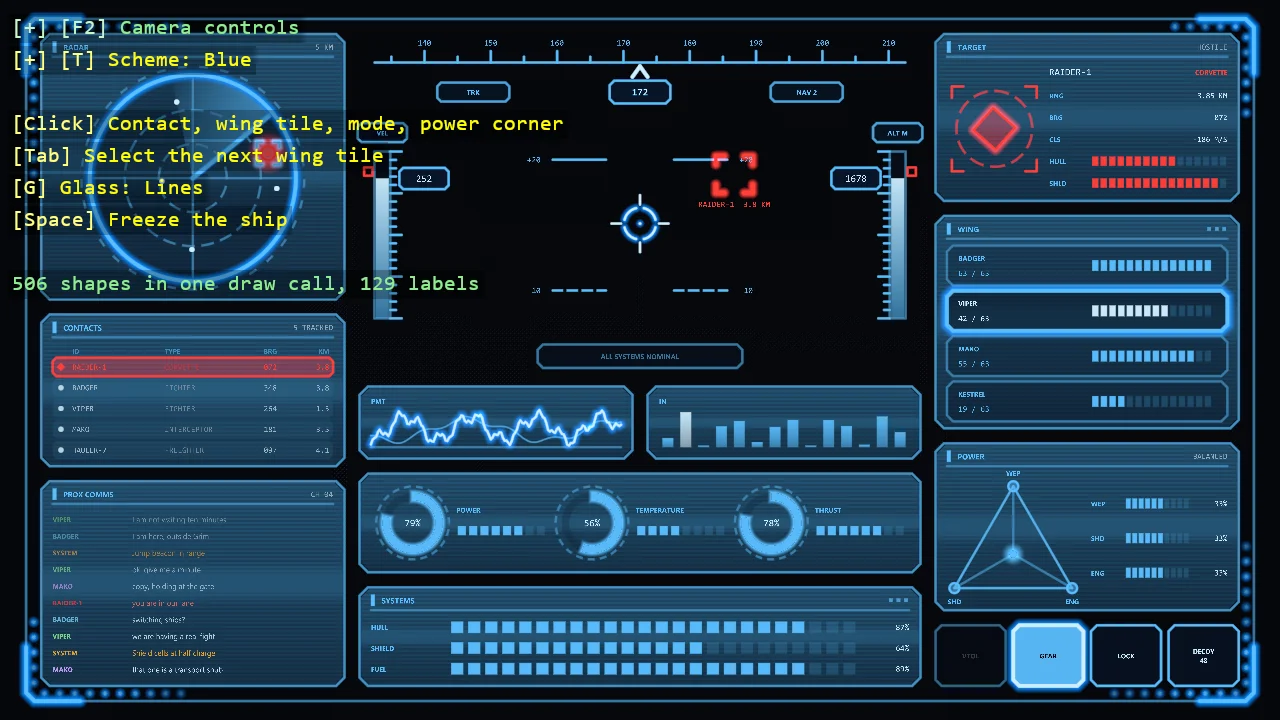
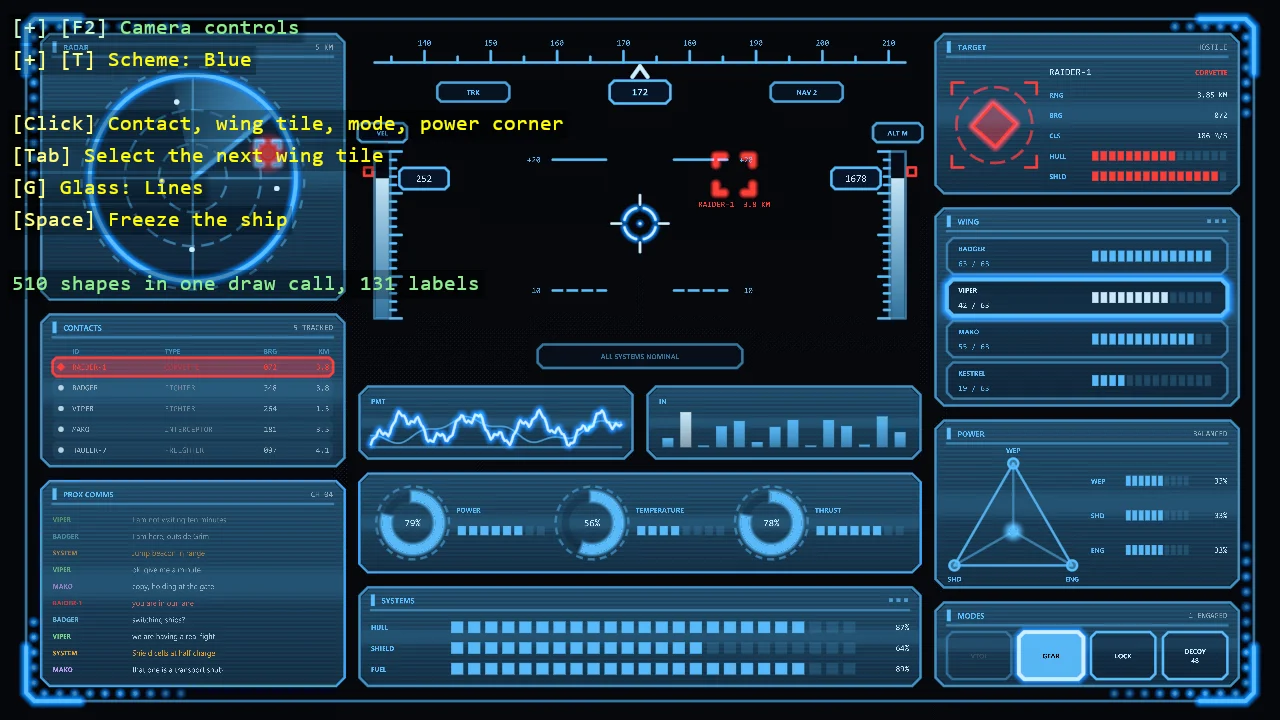
style(hud): refine target, wing and modes widgets

diff --git a/examples/code-only/E03_2D_HUD/ModesWidget.cs b/examples/code-only/E03_2D_HUD/ModesWidget.cs
@@ -3,7 +3,7 @@ using Stride.Core.Mathematics;
 namespace E03_2D_HUD;
 
 /// <summary>
-/// The mode buttons. An engaged mode is lit: filled in the accent with dark lettering. A mode the
+/// The mode buttons, in a panel. An engaged mode is lit: filled in the accent with dark lettering. A mode the
 /// ship does not have is the same button at a quarter of its opacity. Click a button to switch it.
 /// </summary>
 public sealed class ModesWidget(ShipState ship) : HudWidget
@@ -14,9 +14,11 @@ public sealed class ModesWidget(ShipState ship) : HudWidget
 
     public override void Draw(HudCanvas canvas, HudRect bounds)
     {
+        var content = canvas.Panel(bounds, Name, "MODES", $"{ship.Modes.Count(mode => mode.Engaged)} ENGAGED");
+
         for (var i = 0; i < ship.Modes.Length; i++)
         {
-            DrawButton(canvas, i, bounds.Column(i, ship.Modes.Length, Gap));
+            DrawButton(canvas, i, content.Column(i, ship.Modes.Length, Gap));
         }
     }
 
@@ -43,7 +45,7 @@ public sealed class ModesWidget(ShipState ship) : HudWidget
             additive: true);
 
         canvas.Shapes.Tag = id;
-        canvas.ChamferedPanel(button.Center, button.Size, 0.16f, Color.Lerp(accent, theme.Text, engaged));
+        canvas.ChamferedPanel(button.Center, button.Size, 0.14f, Color.Lerp(accent, theme.Text, engaged));
         canvas.Shapes.Tag = null;
 
         // The decoy button carries its count on a second line

diff --git a/examples/code-only/E03_2D_HUD/Hud.cs b/examples/code-only/E03_2D_HUD/Hud.cs
@@ -42,8 +42,8 @@ public sealed class Hud
             new SystemsWidget(ship));
 
         var right = new HudColumn(Padding,
-            new TargetWidget(ship).Sized(4.4f),
-            new WingWidget(ship).Sized(5.6f),
+            new TargetWidget(ship).Sized(4.2f),
+            new WingWidget(ship).Sized(5.2f),
             new PowerWidget(ship).Sized(4.4f),
             new ModesWidget(ship));
 
